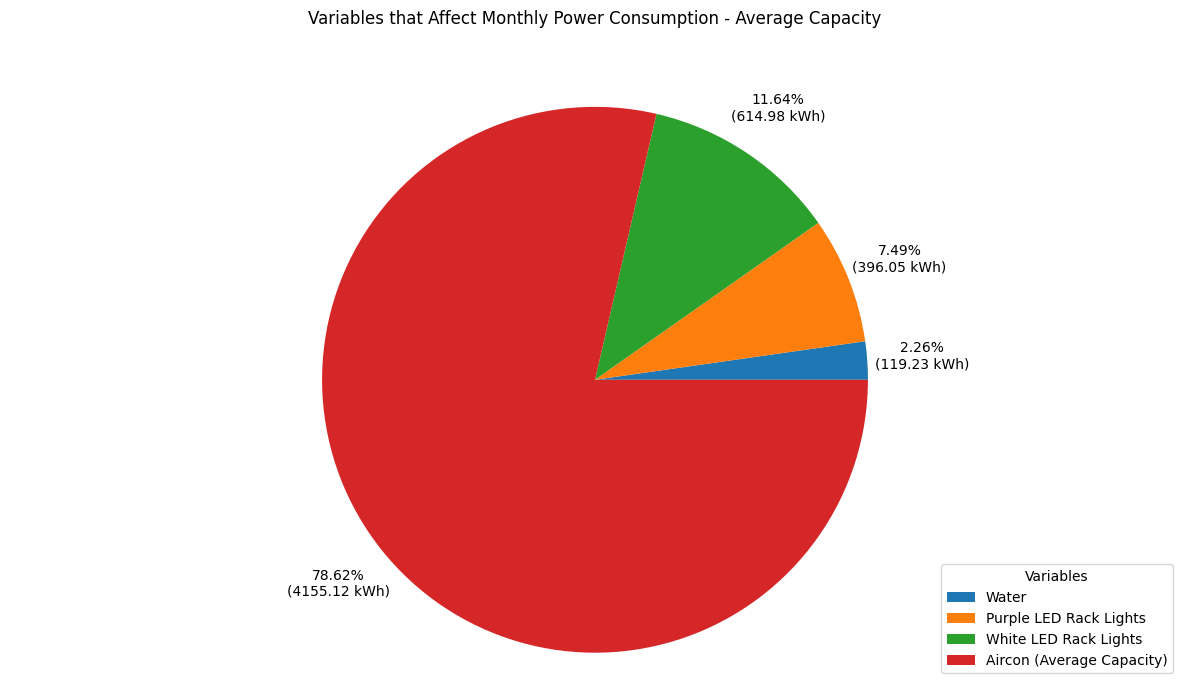
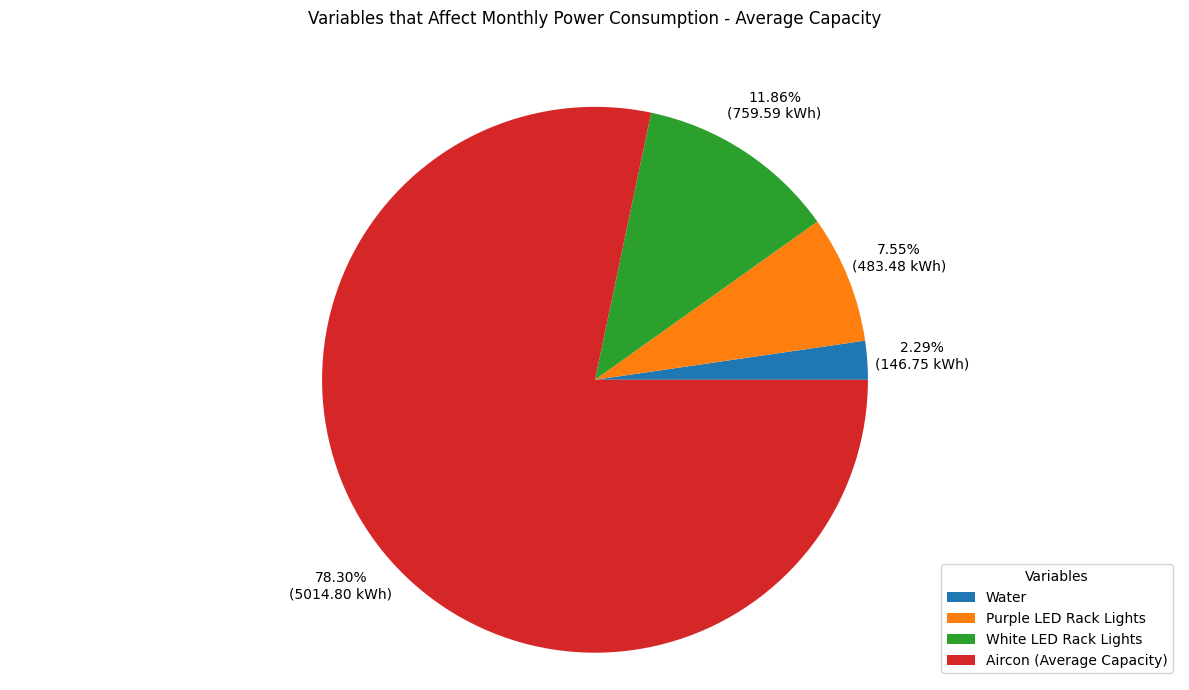
add estimation code in api, to fix import issue

diff --git a/analysis/variables_that_affect_power.py b/analysis/variables_that_affect_power.py
@@ -1,91 +1,10 @@
-import os
 import pandas as pd
-from collections import defaultdict
 import matplotlib.pyplot as plt
 import numpy as np
+from calculate_power_consumption import *
 
 # constants
-PC_PATH = "analysis/data/Power Consumption.csv"
 OUTPUT_ANALYSIS_IMG_PATH = "analysis/results/"
-POWER_READ_INTERVAL = 1  # in hours
-WHOLE_DAY = 24 # in hours
-
-# indoor: Therm-Aire STA-024SPWM
-INDOOR_FAN = 120
-NUM_OF_INDOOR_UNITS = 2
-
-# outdoor: Therm-Aire STA5-048SPMM
-OUTDOOR_COOLING_MIN = 855
-OUTDOOR_COOLING_MAX = 4795
-OUTDOOR_COMPRESSOR_NORM = 2820
-OUTDOOR_COMPRESSOR_MAX = 3040
-OUTDOOR_FAN = 85
-
-# racks observed and total number of racks currently in use in the container
-RACKS = ["Rack_1", "Rack_2", "Rack_3"]
-NUM_OF_WHITE_LED_RACKS = 6
-NUM_OF_PURPLE_LED_RACKS = 3
-
-# function that gets power consumption of all water pumps used rounded to 2dp
-def get_water_power_consumption(pc_data_dict, total_racks_used):
-    water_power_consumption = 0
-    
-    # calculate the total power consumption of water pumps from observed data
-    for rack in RACKS:
-        water_power_consumption += (pc_data_dict[rack + "_Water"]) * POWER_READ_INTERVAL / 1000
-
-    # use the observed data to estimate power consumption of all racks in use
-    return round(water_power_consumption / len(RACKS) * total_racks_used, 2)
-    
-# function that gets power consumption of all rack LED lights used
-# output: power consumption of white led lights and purple led lights, rounded to 2dps
-def get_racklight_power_consumption(pc_data_dict, num_of_purple_led_racks, num_of_white_led_racks):
-    purple_led_power_consumption = 0
-    white_led_power_consumption = 0
-    num_purple_racks_observed = 0
-    
-    # calculate the total power consumption of lights from observed data
-    # rack 1 is using purple LED, racks 2 and 3 is using white LED
-    for rack in RACKS:
-        # filter by racks observed
-        if rack.endswith('1'): 
-            purple_led_power_consumption += (pc_data_dict[rack + "_Light"]) * POWER_READ_INTERVAL / 1000
-            num_purple_racks_observed += 1
-        else:
-            white_led_power_consumption += (pc_data_dict[rack + "_Light"]) * POWER_READ_INTERVAL / 1000
-    
-    # use the observed data to estimate power consumption of all racks in use
-    purple_led_power_consumption = round(purple_led_power_consumption / num_purple_racks_observed * NUM_OF_PURPLE_LED_RACKS, 2)
-    white_led_power_consumption = round(white_led_power_consumption / (len(RACKS) - num_purple_racks_observed) * NUM_OF_WHITE_LED_RACKS, 2)
-    
-    return purple_led_power_consumption, white_led_power_consumption
-
-# function that calculates the power consumption of the air conditioner at maximum cooling capacity
-# assumption: aircon runs for 24 hours a day for the specified number of days
-def get_max_aircon_power(number_of_days):
-    indoor = INDOOR_FAN * NUM_OF_INDOOR_UNITS
-    outdoor = OUTDOOR_COOLING_MAX + OUTDOOR_COMPRESSOR_MAX + OUTDOOR_FAN
-    return round((indoor + outdoor) * number_of_days * WHOLE_DAY / 1000 ,2)
-
-# function that calculates the average power consumption of the air conditioner at normal cooling capacity
-# assumption: aircon runs for 24 hours a day for the specified number of days
-def get_avg_aircon_power(number_of_days):
-    avg_outdoor_cooling = (OUTDOOR_COOLING_MIN + OUTDOOR_COOLING_MAX)/2
-    indoor = INDOOR_FAN * NUM_OF_INDOOR_UNITS
-    outdoor = avg_outdoor_cooling + OUTDOOR_COMPRESSOR_NORM + OUTDOOR_FAN
-    return round((indoor + outdoor) * number_of_days * WHOLE_DAY / 1000 ,2)
-
-# function that returns the number of days the data was collected over
-def get_days_observed(pc_data):
-    # get datetime col in dataframe
-    pc_data.iloc[:, 0] = pd.to_datetime(pc_data.iloc[:, 0])
-    
-    # get date range 
-    first_date = pc_data.iloc[:, 0].min()
-    last_date = pc_data.iloc[:, 0].max()
-    number_of_days = (last_date - first_date).days + 1
-
-    return number_of_days
 
 # function that generates a pie chart using the estimated power consumption and saves as png file
 def generate_pie_chart(estimated_power_dict, filename): 
@@ -114,31 +33,24 @@ def generate_pie_chart(estimated_power_dict, filename):
     plt.savefig(OUTPUT_ANALYSIS_IMG_PATH + filename, bbox_inches='tight')
 
 # check if csv files exists
-if os.path.isfile(PC_PATH):
-    pc_data = pd.read_csv(PC_PATH, usecols=[0, 1, 3])
-    number_of_days = get_days_observed(pc_data)
-    
-    # drop datetime col from dataframe
-    pc_data = pc_data.drop(pc_data.columns[0], axis=1)
-    
-    # create a defaultdict to store pc_data values based on time (and account for duplicates)
-    pc_data_dict = defaultdict(float)
-    for power, reading in pc_data.values:
-        pc_data_dict[reading] += power
-    
+pc_data_dict, number_of_days_observed = get_pc_data()
+if pc_data_dict is not None:
     # store estimdated power consumption in dictionary
     estimated_pc_dict = {}
-    purple_racklight, white_racklight = get_racklight_power_consumption(pc_data_dict, NUM_OF_PURPLE_LED_RACKS, NUM_OF_WHITE_LED_RACKS)
-    estimated_pc_dict['Water'] = get_water_power_consumption(pc_data_dict, NUM_OF_PURPLE_LED_RACKS + NUM_OF_WHITE_LED_RACKS)
+    purple_racklight, white_racklight = get_racklight_power_consumption(pc_data_dict,
+                                                                        NUM_OF_PURPLE_LED_RACKS,
+                                                                        NUM_OF_WHITE_LED_RACKS)
+    estimated_pc_dict['Water'] = get_water_power_consumption(pc_data_dict,
+                                                             NUM_OF_PURPLE_LED_RACKS + NUM_OF_WHITE_LED_RACKS)
     estimated_pc_dict['Purple LED Rack Lights'] = purple_racklight
     estimated_pc_dict['White LED Rack Lights'] = white_racklight
-    estimated_pc_dict['Aircon (Average Capacity)'] = get_avg_aircon_power(number_of_days)
+    estimated_pc_dict['Aircon (Average Capacity)'] = get_avg_aircon_power(number_of_days_observed)
     
     # generate charts for both average and max capacity
     generate_pie_chart(estimated_pc_dict, 'Variables that Affect Monthly Power Consumption - Average Capacity')
     
     estimated_pc_dict.pop("Aircon (Average Capacity)", None)
-    estimated_pc_dict['Aircon (Max Capacity)'] = get_max_aircon_power(number_of_days)
+    estimated_pc_dict['Aircon (Max Capacity)'] = get_max_aircon_power(number_of_days_observed)
     generate_pie_chart(estimated_pc_dict, 'Variables that Affect Monthly Power Consumption - Max Capacity')
 
 else:

diff --git a/analysis/calculate_power_consumption.py b/analysis/calculate_power_consumption.py
@@ -1,0 +1,106 @@
+import os
+import pandas as pd
+from collections import defaultdict
+
+PC_PATH = "analysis/data/Power Consumption.csv"
+
+RACKS = ["Rack_1", "Rack_2", "Rack_3"] # racks observed
+POWER_READ_INTERVAL = 1  # in hours
+WHOLE_DAY = 24 # in hours
+
+# indoor aircon unit: Therm-Aire STA-024SPWM
+INDOOR_FAN = 120
+NUM_OF_INDOOR_UNITS = 2
+
+# outdoor aircon unit: Therm-Aire STA5-048SPMM
+OUTDOOR_COOLING_MIN = 855
+OUTDOOR_COOLING_MAX = 4795
+OUTDOOR_COMPRESSOR_NORM = 2820
+OUTDOOR_COMPRESSOR_MAX = 3040
+OUTDOOR_FAN = 85
+
+# total number of racks currently in use in the container
+NUM_OF_WHITE_LED_RACKS = 6
+NUM_OF_PURPLE_LED_RACKS = 3
+
+def get_pc_data(pc_path=PC_PATH):    
+    if os.path.isfile(pc_path):
+        pc_data = pd.read_csv(pc_path, usecols=[0, 1, 3])
+        number_of_days_observed = get_days_observed(pc_data)
+        # drop datetime col from dataframe
+        pc_data = pc_data.drop(pc_data.columns[0], axis=1)
+        
+        # create a defaultdict to store pc_data values based on time (and account for duplicates)
+        pc_data_dict = defaultdict(float)
+        for power, reading in pc_data.values:
+            pc_data_dict[reading] += power
+            
+        return pc_data_dict, number_of_days_observed
+    else:
+        return None
+    
+# function that returns the number of days the data was collected over
+def get_days_observed(pc_data):
+    # get datetime col in dataframe
+    pc_data.iloc[:, 0] = pd.to_datetime(pc_data.iloc[:, 0])
+    
+    # get date range 
+    first_date = pc_data.iloc[:, 0].min()
+    last_date = pc_data.iloc[:, 0].max()
+    number_of_days_observed = (last_date - first_date).days + 1
+
+    return number_of_days_observed
+
+# function that gets power consumption of all water pumps used rounded to 2dp
+def get_water_power_consumption(pc_data_dict,
+                                total_racks_used = NUM_OF_PURPLE_LED_RACKS + NUM_OF_WHITE_LED_RACKS):
+    water_power_consumption = 0
+    
+    # calculate the total power consumption of water pumps from observed data
+    for rack in RACKS:
+        water_power_consumption += (pc_data_dict[rack + "_Water"]) * POWER_READ_INTERVAL / 1000
+
+    # use the observed data to estimate power consumption of all racks in use
+    return round(water_power_consumption / len(RACKS) * total_racks_used, 2)
+    
+# function that gets power consumption of all rack LED lights used
+# output: power consumption of white led lights and purple led lights, rounded to 2dps
+def get_racklight_power_consumption(pc_data_dict,
+                                    num_of_purple_led_racks = NUM_OF_PURPLE_LED_RACKS,
+                                    num_of_white_led_racks = NUM_OF_WHITE_LED_RACKS):
+    purple_led_power_consumption = 0
+    white_led_power_consumption = 0
+    num_purple_racks_observed = 0
+    
+    # calculate the total power consumption of lights from observed data
+    # rack 1 is using purple LED, racks 2 and 3 is using white LED
+    for rack in RACKS:
+        # filter by racks observed
+        if rack.endswith('1'): 
+            purple_led_power_consumption += (pc_data_dict[rack + "_Light"]) * POWER_READ_INTERVAL / 1000
+            num_purple_racks_observed += 1
+        else:
+            white_led_power_consumption += (pc_data_dict[rack + "_Light"]) * POWER_READ_INTERVAL / 1000
+    
+    # use the observed data to estimate power consumption of all racks in use
+    purple_led_power_consumption = round(purple_led_power_consumption / num_purple_racks_observed * num_of_purple_led_racks, 2)
+    white_led_power_consumption = round(white_led_power_consumption / (len(RACKS) - num_purple_racks_observed) * num_of_white_led_racks, 2)
+    
+    return purple_led_power_consumption, white_led_power_consumption
+
+# function that calculates the power consumption of the air conditioner at maximum cooling capacity
+# assumption: aircon runs for 24 hours a day for the specified number of days
+def get_max_aircon_power(number_of_days,
+                         number_of_hours_ran = WHOLE_DAY):
+    indoor = INDOOR_FAN * NUM_OF_INDOOR_UNITS
+    outdoor = OUTDOOR_COOLING_MAX + OUTDOOR_COMPRESSOR_MAX + OUTDOOR_FAN
+    return round((indoor + outdoor) * number_of_days * number_of_hours_ran / 1000, 2)
+
+# function that calculates the average power consumption of the air conditioner at normal cooling capacity
+# assumption: aircon runs for 24 hours a day for the specified number of days
+def get_avg_aircon_power(number_of_days,
+                         number_of_hours_ran = WHOLE_DAY):
+    avg_outdoor_cooling = (OUTDOOR_COOLING_MIN + OUTDOOR_COOLING_MAX)/2
+    indoor = INDOOR_FAN * NUM_OF_INDOOR_UNITS
+    outdoor = avg_outdoor_cooling + OUTDOOR_COMPRESSOR_NORM + OUTDOOR_FAN
+    return round((indoor + outdoor) * number_of_days * number_of_hours_ran / 1000, 2)

diff --git a/docker-containers/api/app/calculator_app.py b/docker-containers/api/app/calculator_app.py
@@ -1,17 +1,48 @@
 from flask import Flask, request, jsonify
+import pandas as pd
+import os
+from collections import defaultdict
+from analysis.calculate_power_consumption import *
 
 app = Flask(__name__)
 
 @app.route("/calculate", methods=["POST"])
 def calculate():
-    # To replace with actual input and formula
-    aircon_power_consumption = request.json["aircon_input"]
-    light_power_consumption = request.json["light_input"]
-    water_power_consumption =  request.json["water_input"]
-    result = aircon_power_consumption + light_power_consumption + water_power_consumption
-
+    # get user inputs
+    num_of_purple_led_racks = request.json["num_of_purple_led_racks"]
+    num_of_white_led_racks = request.json["num_of_white_led_racks"]
+    aircon_cooling_capacity = request.json["aircon_cooling_capacity"]
+    aircon_number_of_hours_ran = request.json["aircon_number_of_hours_ran"]
+    
+    pc_data_dict, number_of_days_observed = get_pc_data()
+    if pc_data_dict is not None:
+        # get estimated power consumption based on user inputs
+        water_power_consumption = get_water_power_consumption(pc_data_dict,
+                                                            num_of_purple_led_racks + num_of_white_led_racks)
+        purple_led_power_consumption, white_led_power_consumption = get_racklight_power_consumption(pc_data_dict,
+                                                                                                    num_of_purple_led_racks,
+                                                                                                    num_of_white_led_racks)
+        if aircon_cooling_capacity == 'Average':
+            aircon_power_consumption = get_avg_aircon_power(number_of_days_observed, aircon_number_of_hours_ran)
+        else:
+            aircon_power_consumption = get_max_aircon_power(number_of_days_observed, aircon_number_of_hours_ran)
+        
+        result = water_power_consumption + purple_led_power_consumption + white_led_power_consumption + aircon_power_consumption
+        
+        # get current power consumption based on default values
+        current_power_consumption = get_water_power_consumption(pc_data_dict) + get_racklight_power_consumption(pc_data_dict) + aircon_power_consumption
+        
+        # get difference in power consumption
+        difference = result - current_power_consumption
+        
+    else:
+        result = None
+        difference = None
+        
     # Return result to client
-    return jsonify({"result": result})
+    return jsonify({
+        "result": result,
+        "diff": difference})
 
 if __name__ == "__main__":
     app.run(host='0.0.0.0', port=8080) # enable on port 8080 for all available ip addresses
